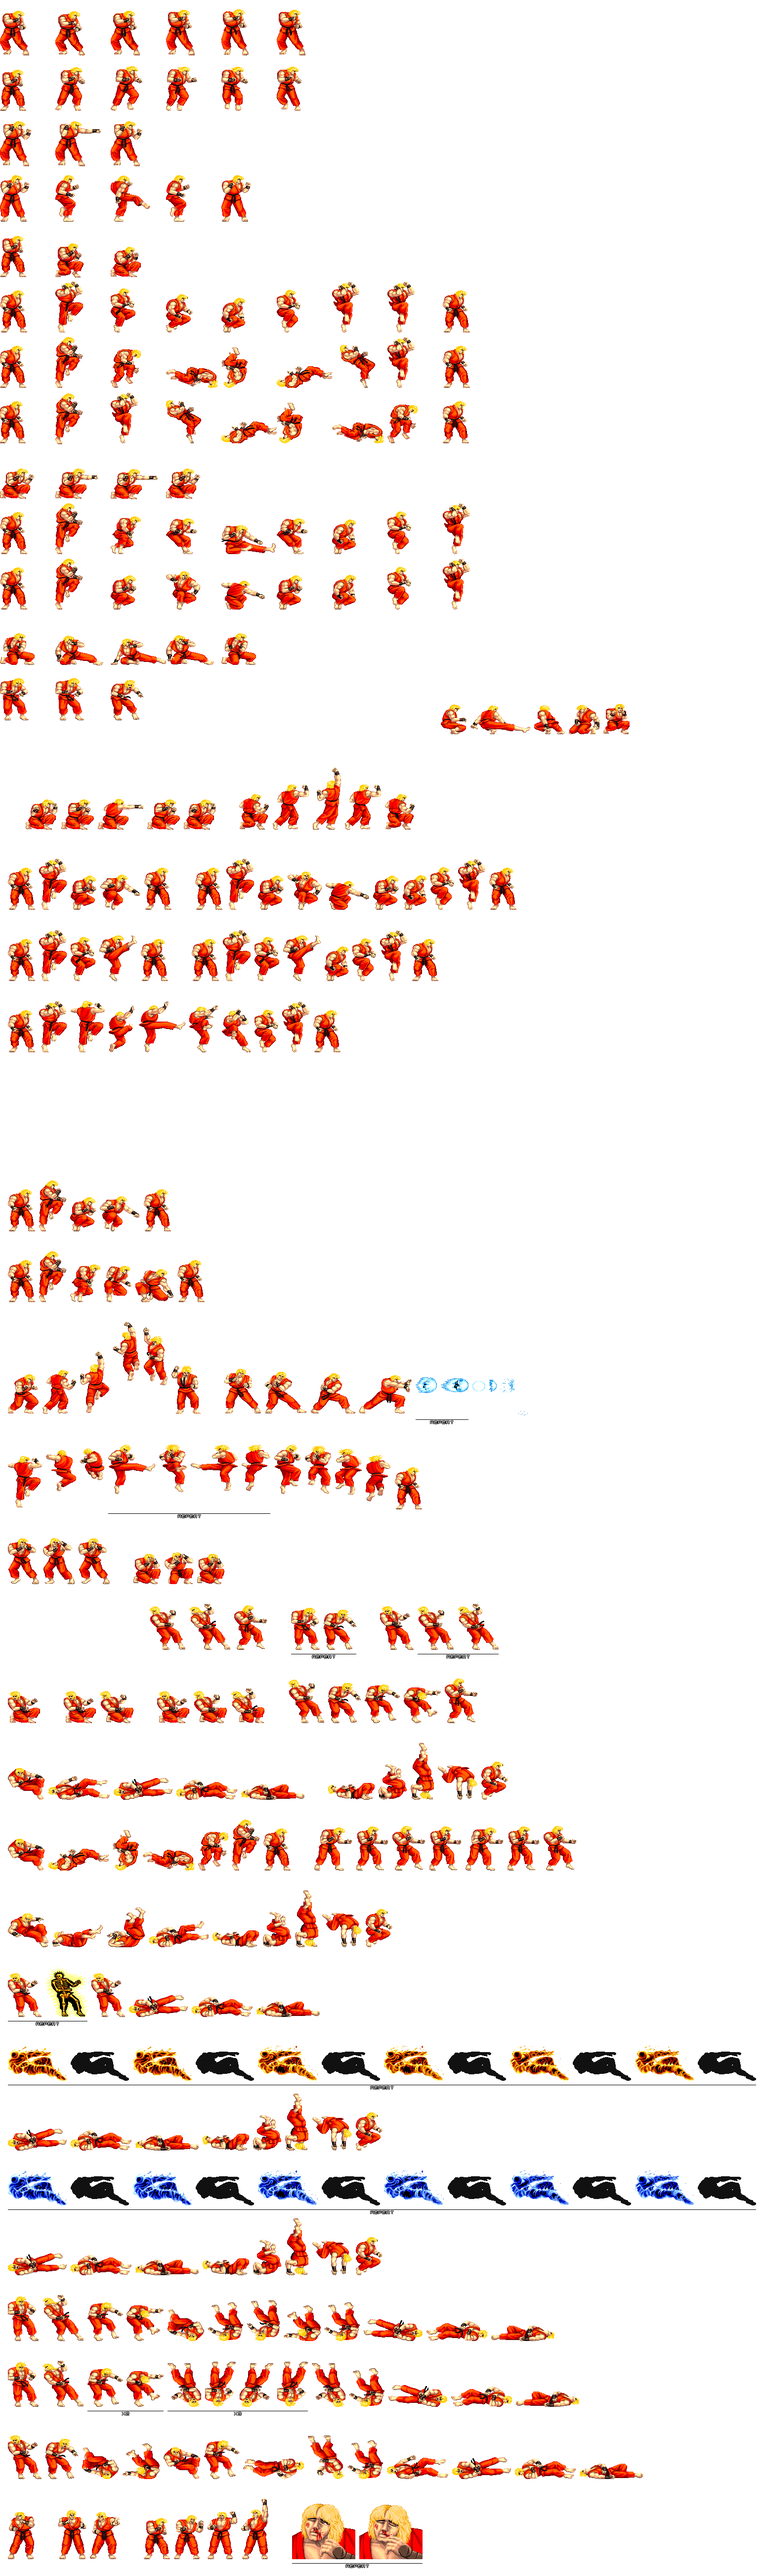
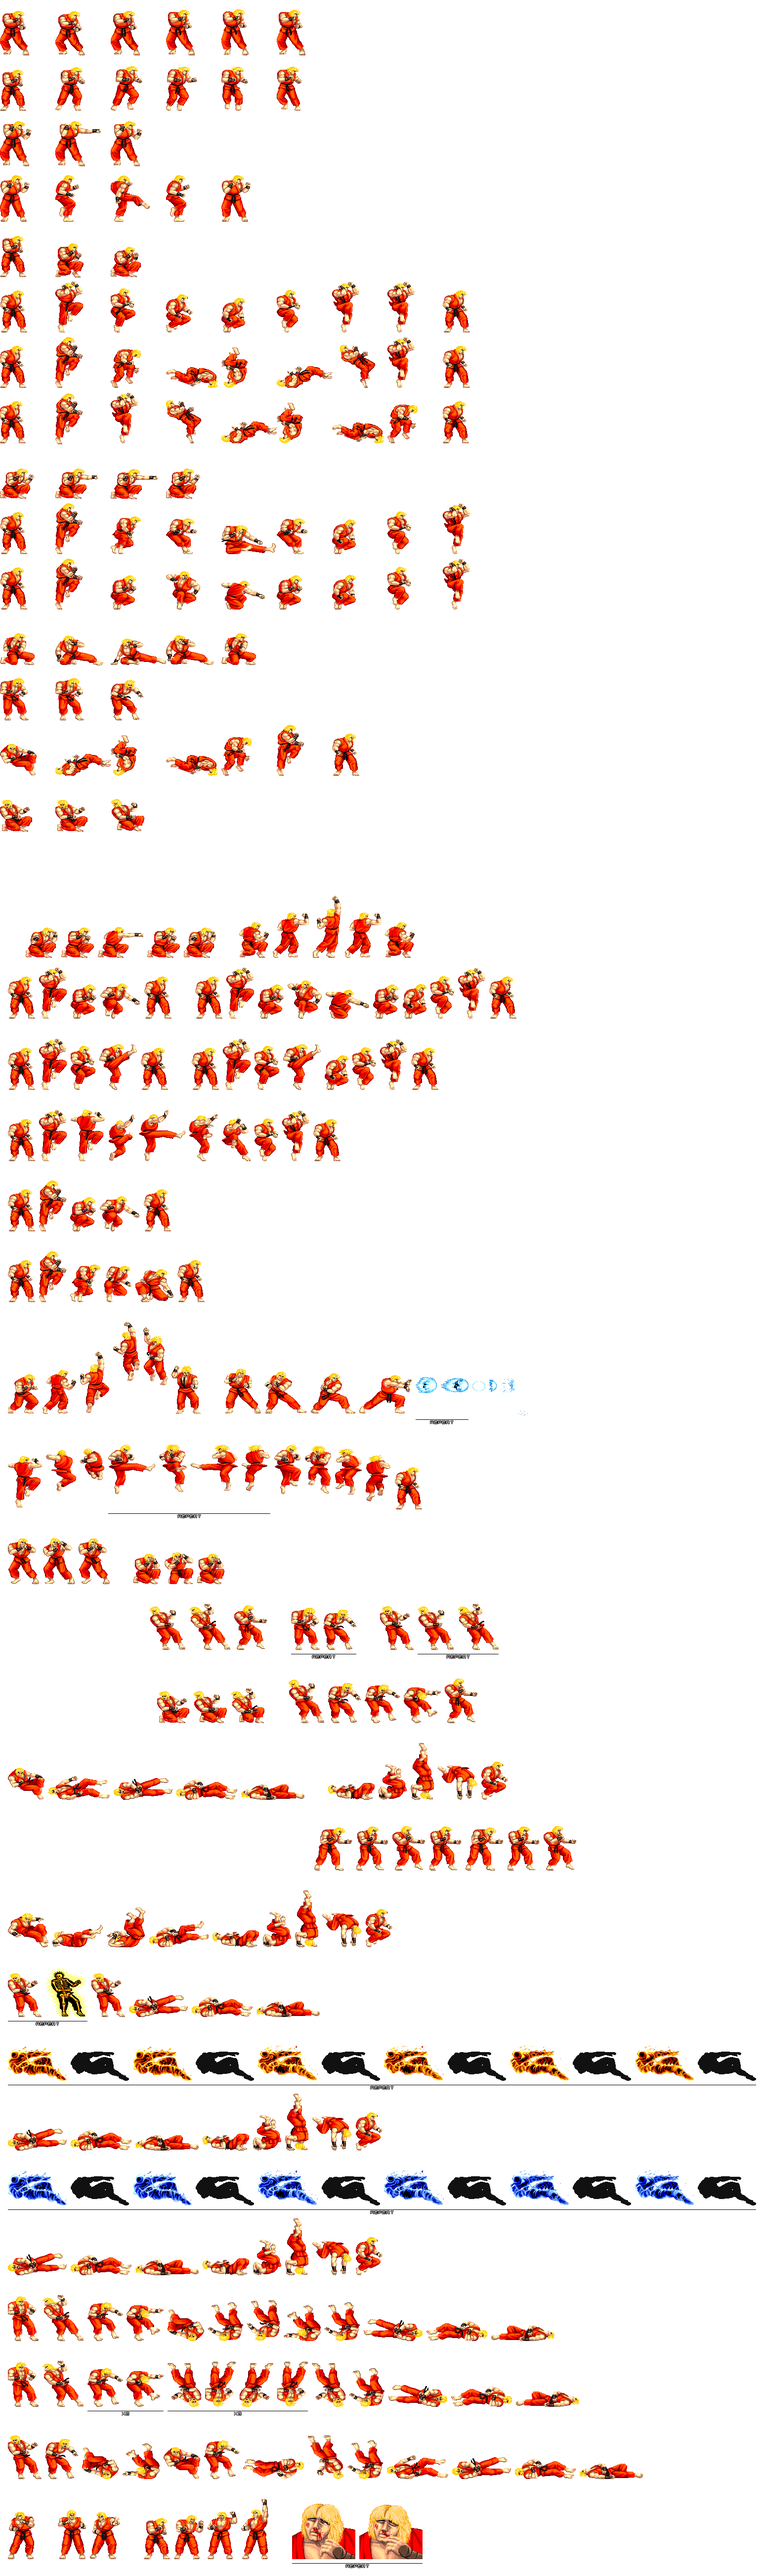
fazendo animacao de sofrendo dano

diff --git a/src/main.c b/src/main.c
@@ -139,7 +139,9 @@ void handle_player_input(ALLEGRO_KEYBOARD_STATE* key_state, player* p, const int
             *movement = IDLE;
         }
     } else {
-        *movement = DAMAGED;
+        /* if (p->isDown) *movement = DAMAGED_DOWN;
+        else if (p->isJumping) *movement = DAMAGED_JMP;
+        else */ *movement = DAMAGED; //arrumar esse trecho, jump e down nao funcionam
         p->speed_x = p->direction ? 1 : -1;
     }
 }
@@ -195,6 +197,12 @@ int countFrames(int movement) {
         case DAMAGED:
             return 3;
             break;
+        case DAMAGED_JMP:
+            return 7;
+            break;
+        case DAMAGED_DOWN:
+            return 3;
+            break;
         default:
             return -100;
             break;
@@ -241,7 +249,7 @@ void handle_down(player *p, int mv, int *frame, int maxFrames, int timer_count) 
 }
 
 void being_hit(player *p, int mv, int *frame, int maxFrames) {
-    if (*frame == maxFrames && mv == DAMAGED) p->isBeingHit = 0;
+    if (*frame == maxFrames && (mv == DAMAGED || mv == DAMAGED_DOWN || mv == DAMAGED_JMP)) p->isBeingHit = 0;
 }
 
 void handle_jump(player *p, player *opponent, int *movement) {

diff --git a/src/character.h b/src/character.h
@@ -35,6 +35,8 @@
 #define JUMPING_PUNCH 10
 #define DOWN_KICK 11
 #define DAMAGED 12
+#define DAMAGED_JMP 13
+#define DAMAGED_DOWN 14
 
 #define SPRITE_HEIGHT 112
 #define SPRITE_WIDTH 112
